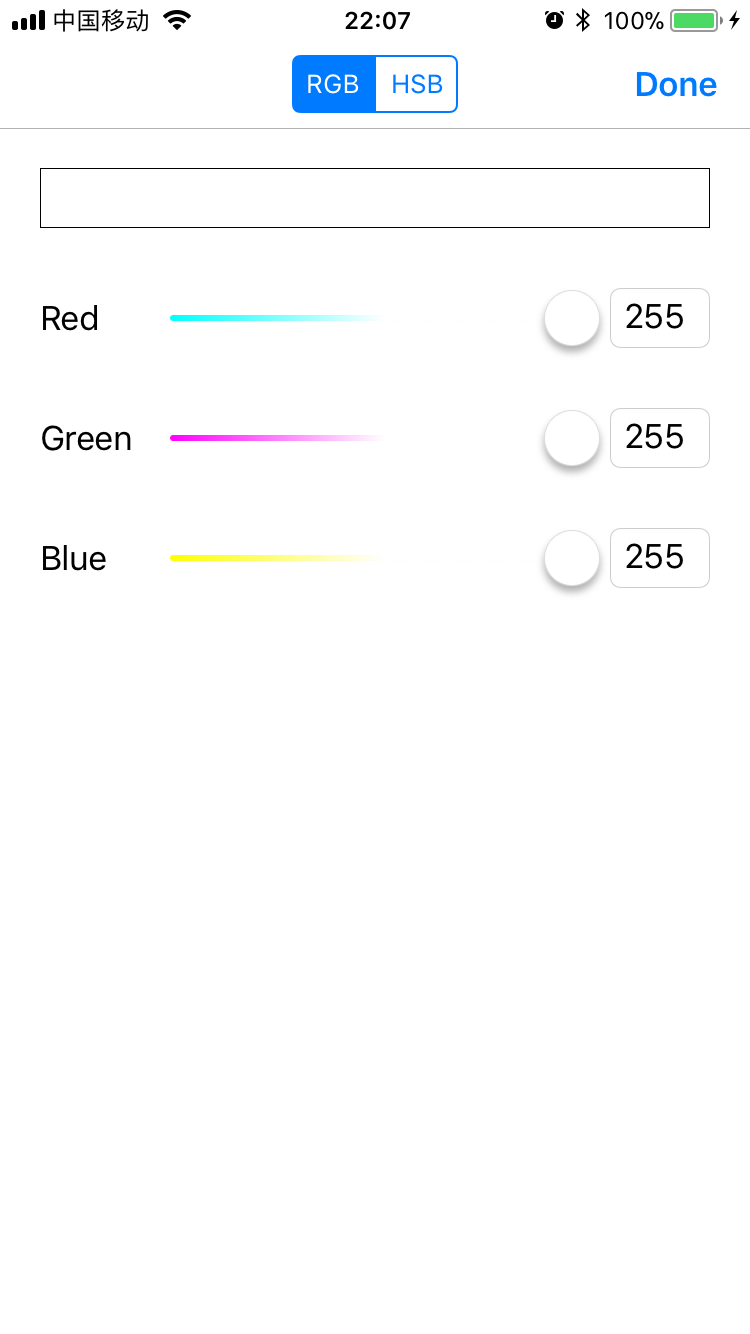
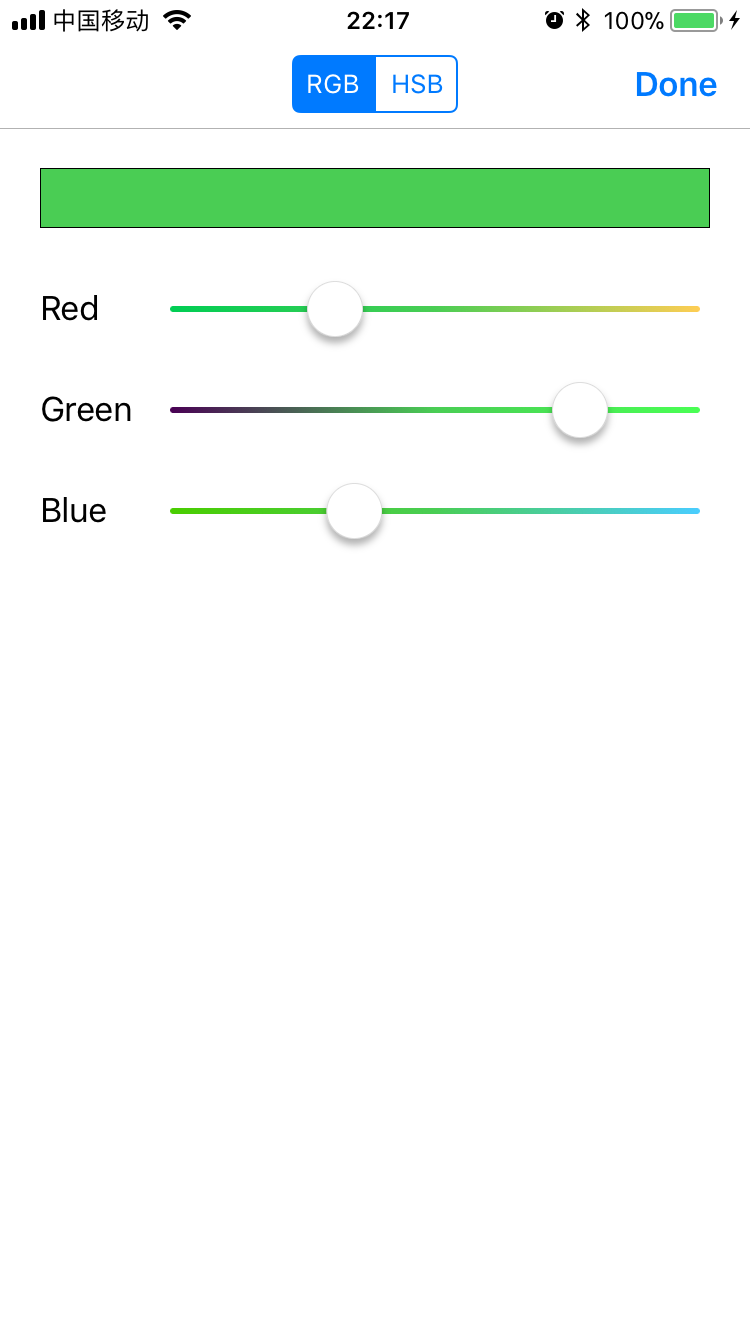
Update README.md

diff --git a/README.md b/README.md
@@ -27,9 +27,9 @@ Color picker component for iOS. It allows the user to select a color with color 
 
 ## Preview
 
-|   | iPhone |   | iPad |
-|:---------------------:|:---------------------:|:---------------------:|:---------------------:|
-![](https://raw.githubusercontent.com/EyreFree/EFColorPicker/master/assets/sample_iphone0.png)|![](https://raw.githubusercontent.com/EyreFree/EFColorPicker/master/assets/sample_iphone1.png)|![](https://raw.githubusercontent.com/EyreFree/EFColorPicker/master/assets/sample_iphone.gif)|![](https://raw.githubusercontent.com/EyreFree/EFColorPicker/master/assets/sample_ipad.gif)   
+| iPhone |   | iPad |
+|:---------------------:|:---------------------:|:---------------------:|
+![](https://raw.githubusercontent.com/EyreFree/EFColorPicker/master/assets/sample_iphone.png)|![](https://raw.githubusercontent.com/EyreFree/EFColorPicker/master/assets/sample_iphone.gif)|![](https://raw.githubusercontent.com/EyreFree/EFColorPicker/master/assets/sample_ipad.gif)   
 
 ## Example
 
@@ -117,6 +117,12 @@ if "showPopover" == segue.identifier {
 	}
 }
 ```
+
+You can control the visibility of color textField by change the `isColorTextFieldHidden` property of `EFColorSelectionViewController`, for example:
+
+| isColorTextFieldHidden: true |   | isColorTextFieldHidden: false |   |
+|:---------------------:|:---------------------:|:---------------------:|:---------------------:|
+![](https://raw.githubusercontent.com/EyreFree/EFColorPicker/master/assets/sample_iphone1.png)![](https://raw.githubusercontent.com/EyreFree/EFColorPicker/master/assets/sample_iphone2.png)![](https://raw.githubusercontent.com/EyreFree/EFColorPicker/master/assets/sample_iphone3.png)![](https://raw.githubusercontent.com/EyreFree/EFColorPicker/master/assets/sample_iphone4.png)   
 
 For more detail, please see the demo.
 
